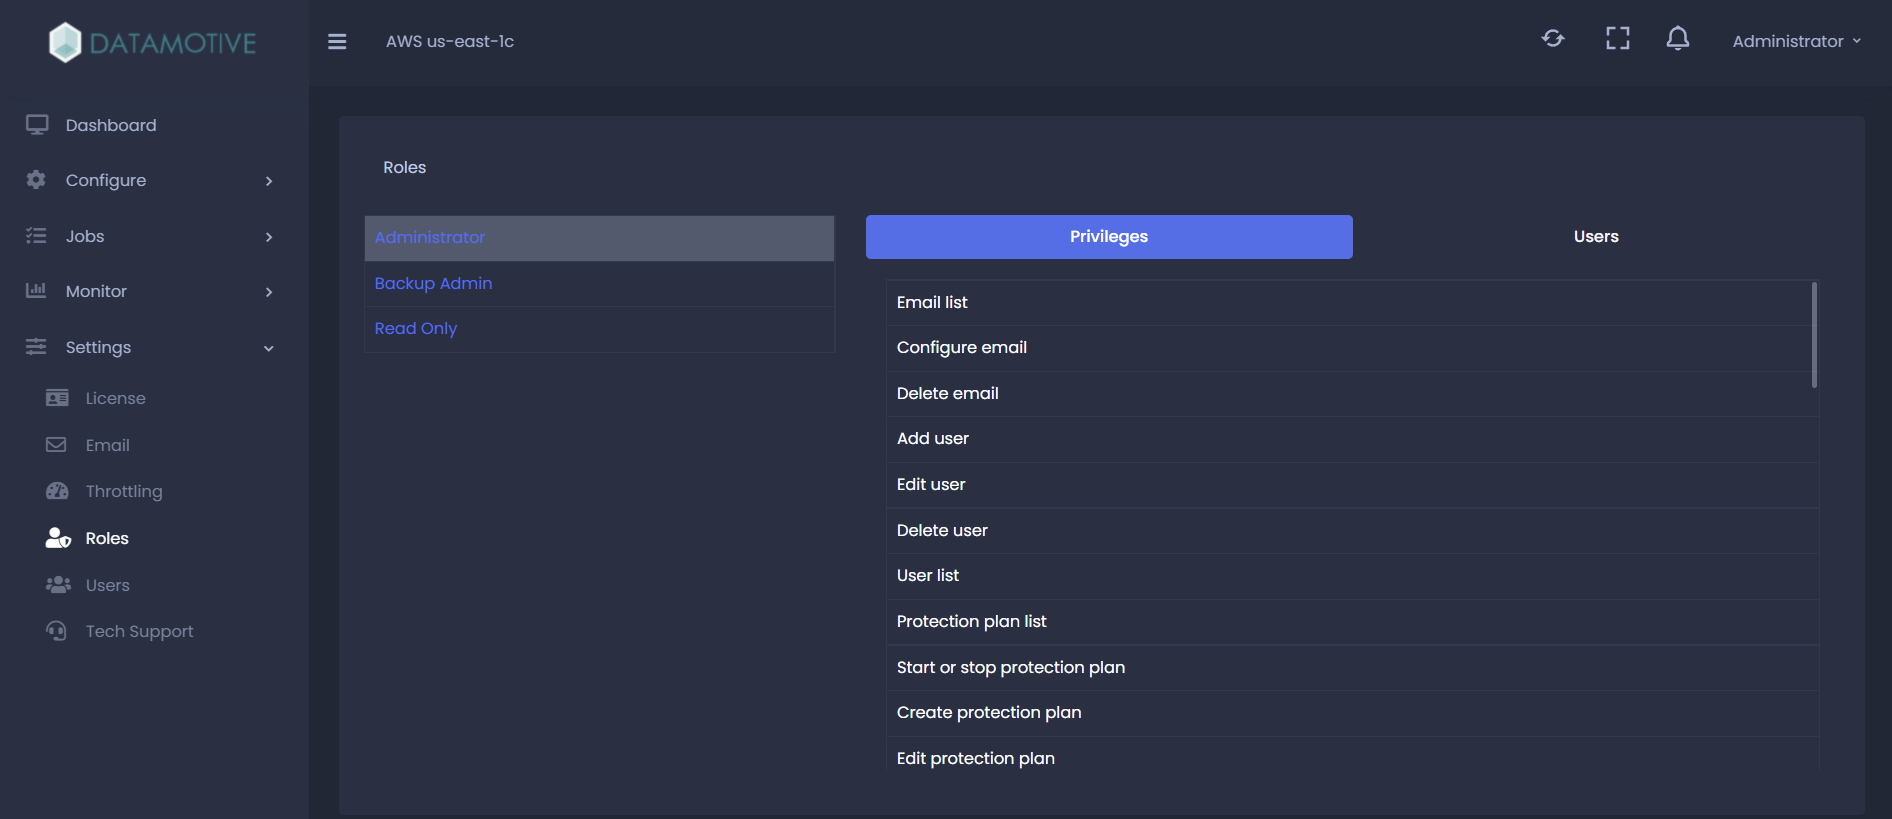
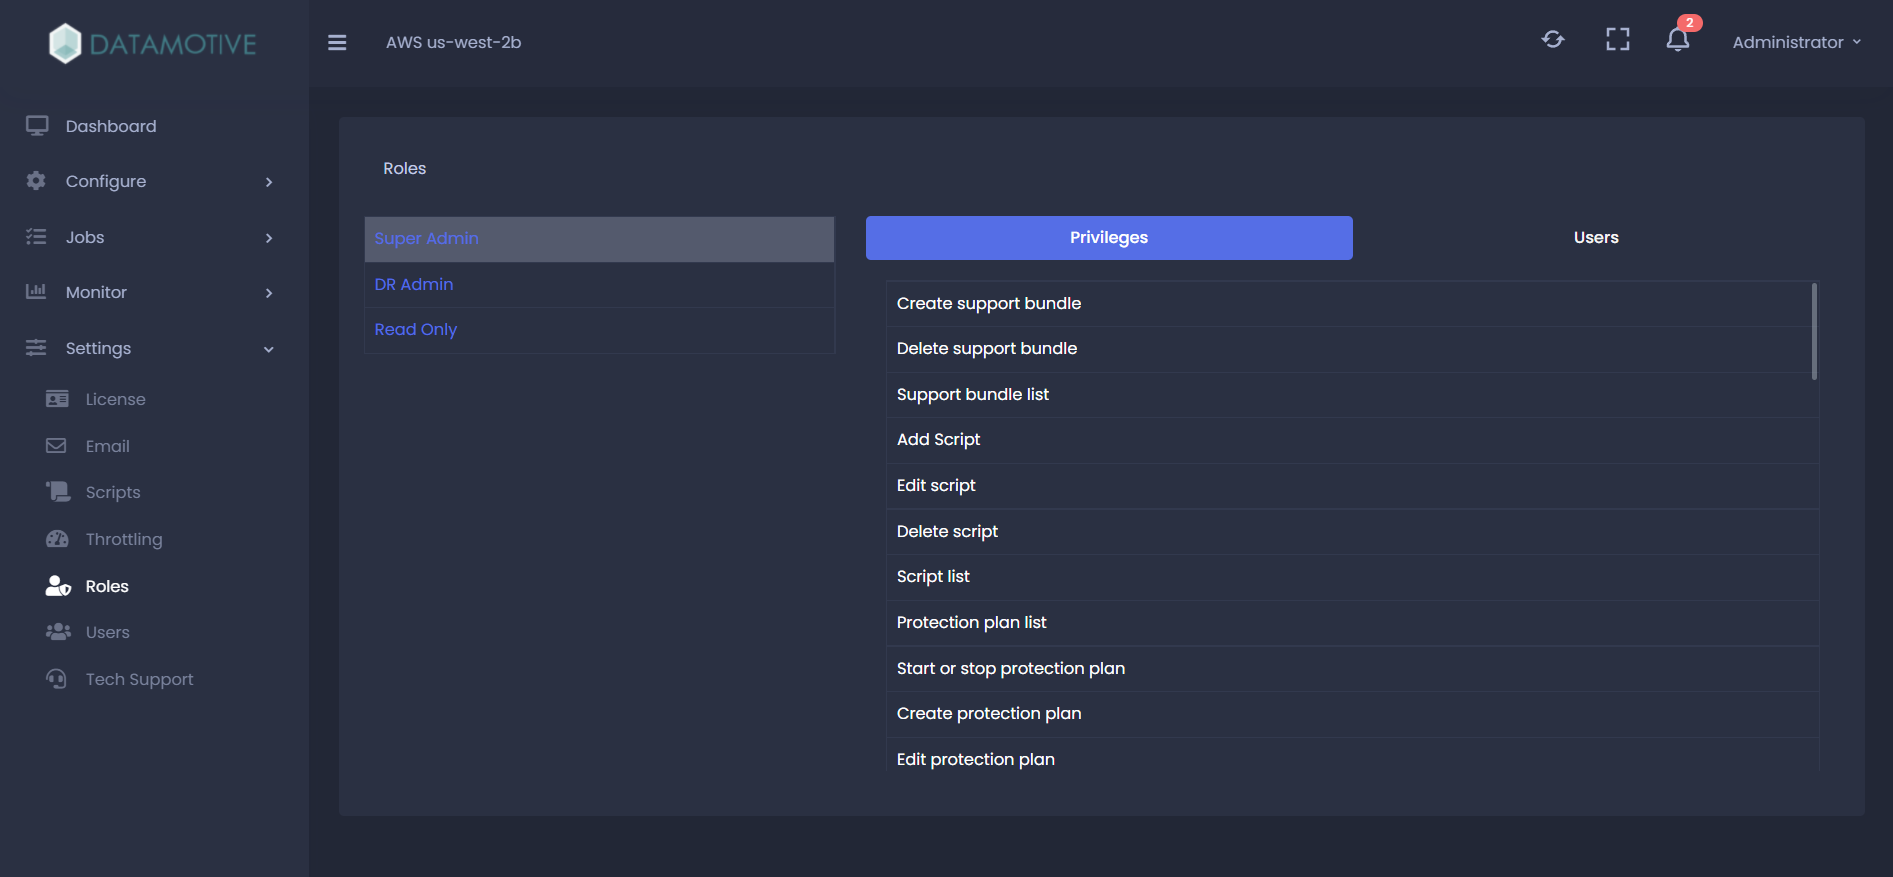
Updated documentaion for   Support matrix   Users   Roles

diff --git a/documentation/src/pages/supportmatrix.js b/documentation/src/pages/supportmatrix.js
@@ -18,8 +18,8 @@ export default function SupportMatrix() {
     { name: 'Suse Linux 12', kernel: '', supported: false },
     { name: 'Suse Linux 15', kernel: '', supported: false },
     { name: 'Microsoft Windows 10 Professional', kernel: '', supported: true },
-    { name: 'MS Windows Server 2012 (Standard, Datacenter)', kernel: '', supported: true },
-    { name: 'MS Windows Server 2012 R2 (Standard, Datacenter)', kernel: '', supported: true },
+    { name: 'MS Windows Server 2012 (Standard, Datacenter)', kernel: ['Reverse recovery for Win2k12 is currently not supported to VMWare (specifically for VMWare to AWS)'], supported: true },
+    { name: 'MS Windows Server 2012 R2 (Standard, Datacenter)', kernel: ['Reverse recovery for Win2k12-R2 is currently not supported to VMWare (specifically for VMWare to AWS) '], supported: true },
     { name: 'MS Windows Server 2016 (Standard, Datacenter)', kernel: '', supported: true },
     { name: 'MS Windows Server 2019 (Standard, Datacenter) ', kernel: '', supported: true },
   ];

diff --git a/documentation/src/pages/authentication.js b/documentation/src/pages/authentication.js
@@ -23,8 +23,8 @@ export default function Authentication() {
           <li class="item1">By default Datamotive will create following three users
             <ol>
               <li>Administrator</li>
-              <li>Backupadmin</li>
-              <li>guest</li>
+              <li>DRadmin</li>
+              <li>Guest</li>
             </ol>
             <li>Default password for all the user is 'admin'</li>
           </li>

diff --git a/documentation/src/pages/users.js b/documentation/src/pages/users.js
@@ -9,7 +9,6 @@ export default function Users() {
         Location: Home --> Settings --> Users <br />
         Users list  provide all registered users with their assign roles.
         <img alt="" src={userList} />
-        
     </div>
   )
 }
